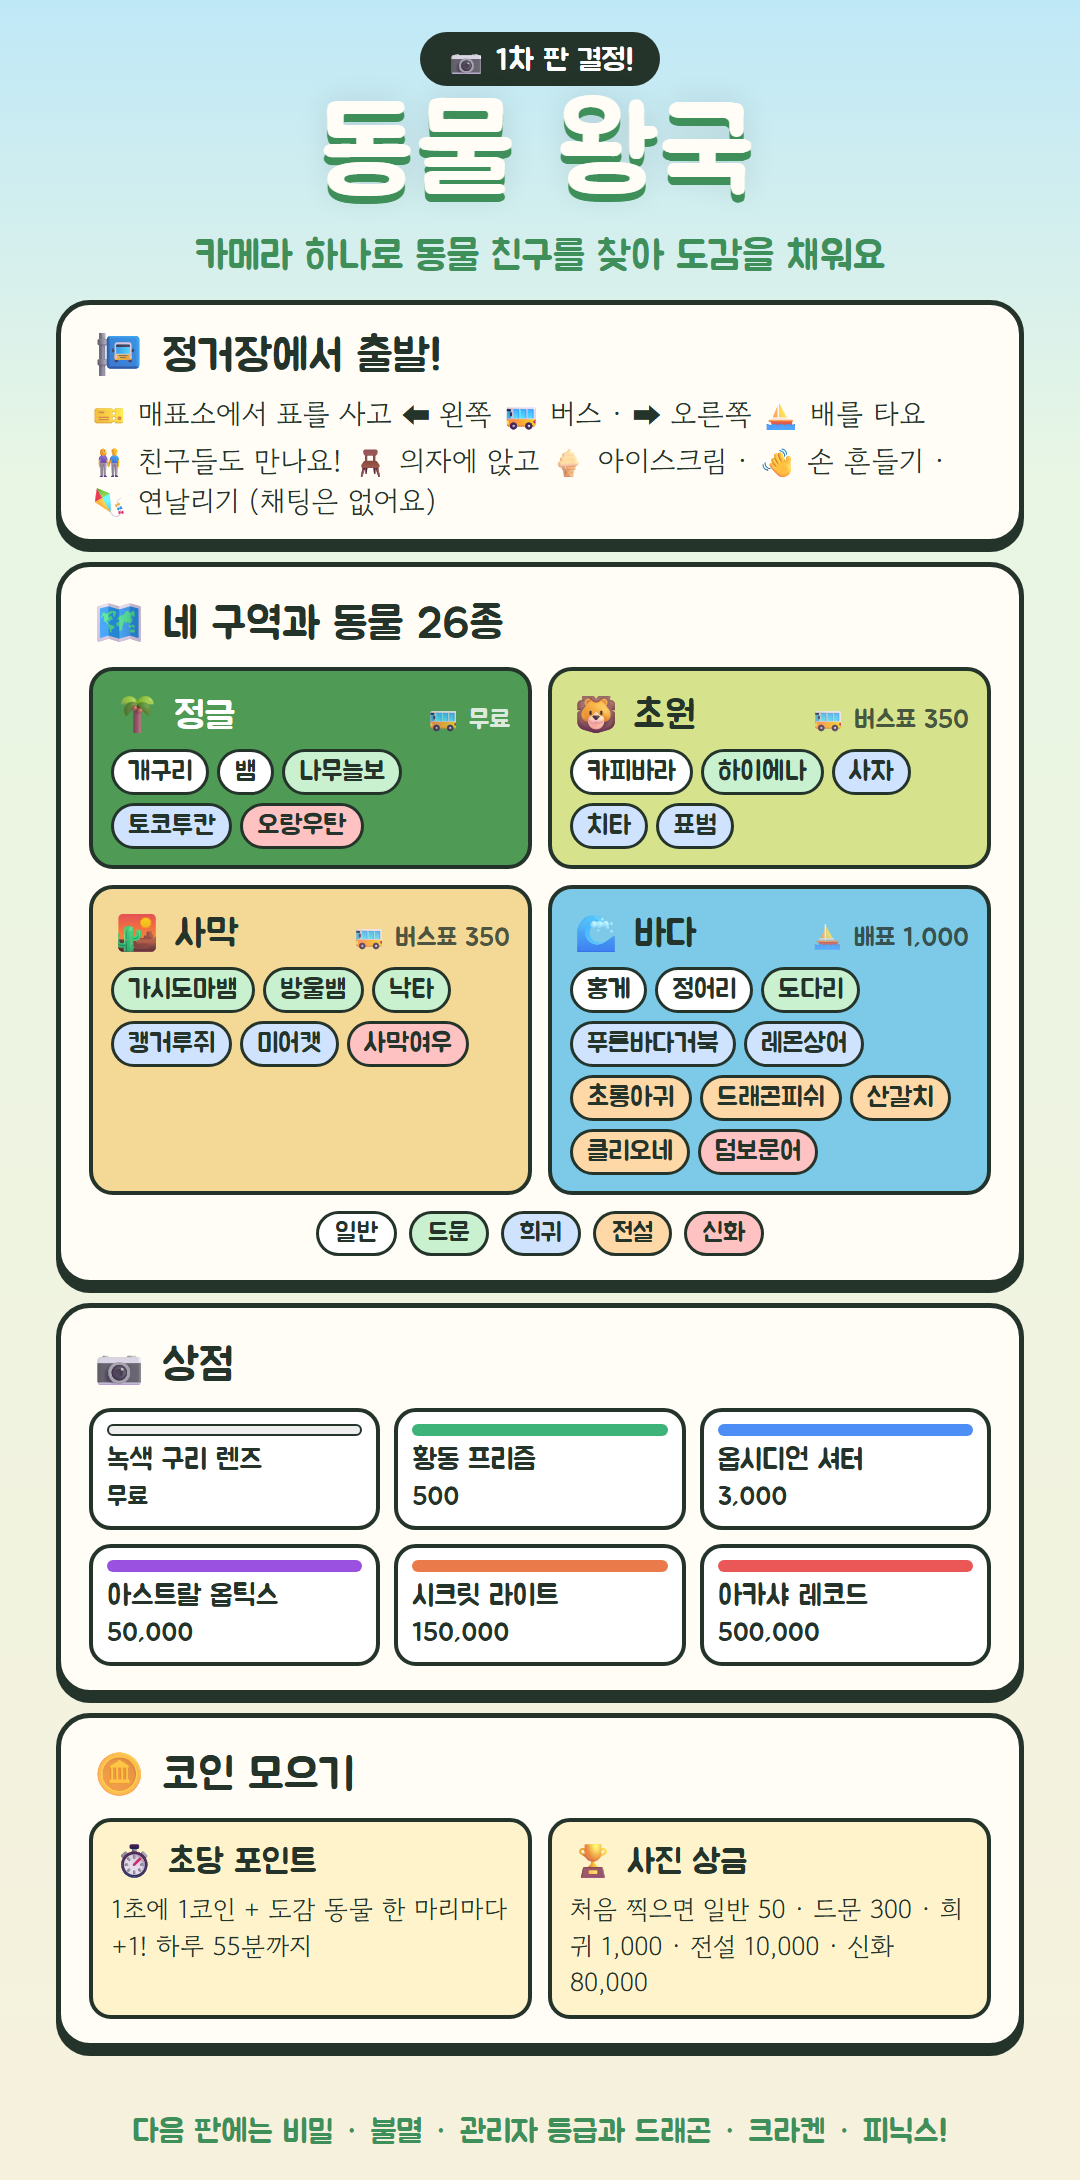
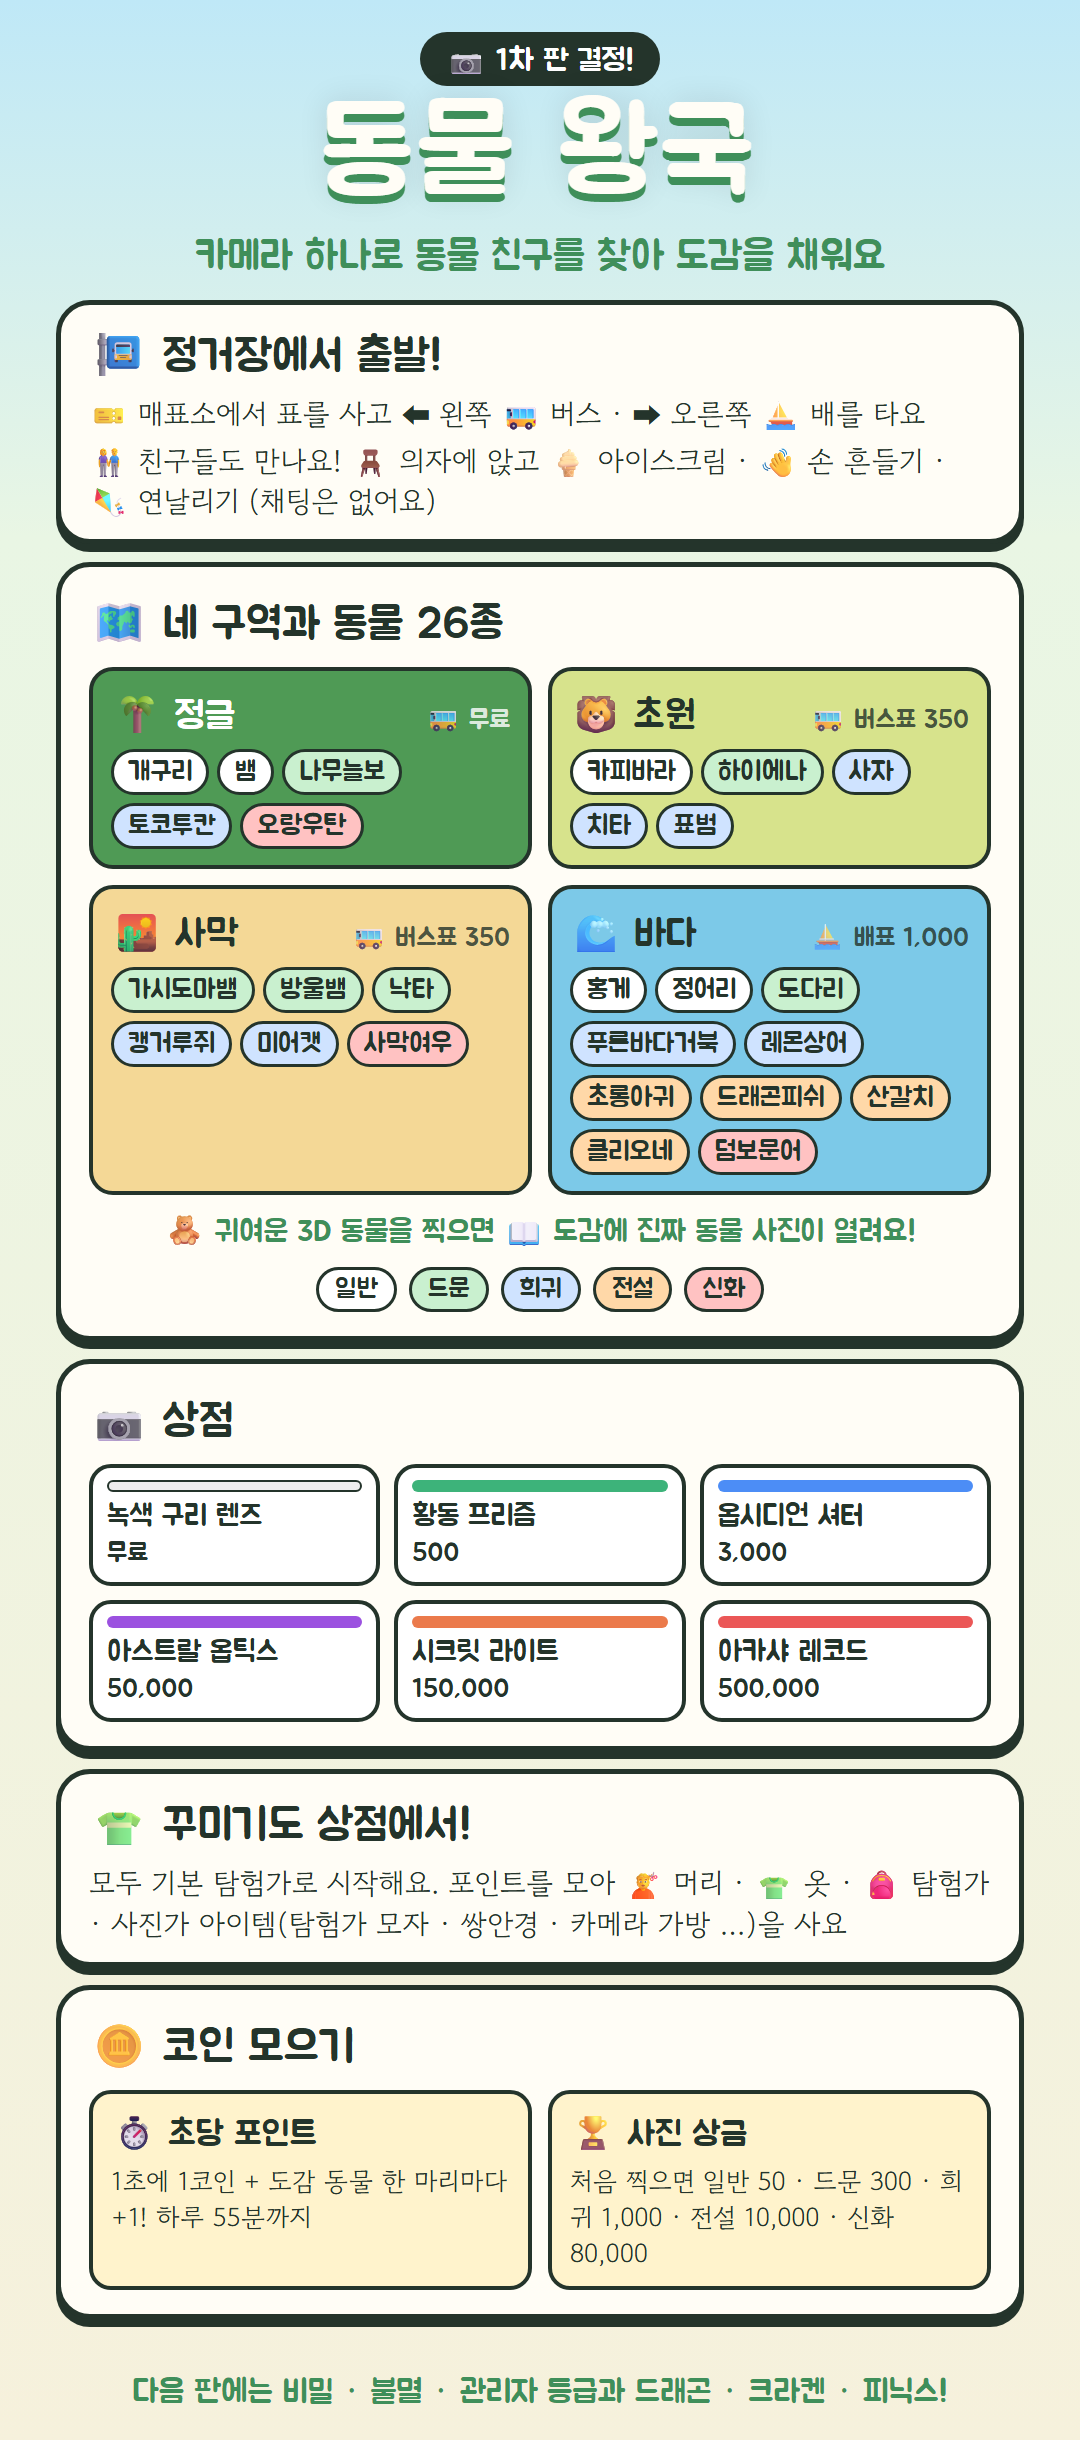
snapzoo 설계 기록: 꾸미기(기본 탐험가로 시작 · 머리 · 옷 · 탐험가 · 사진가 아이템을 상점에서 포인트로), 게임 속 동물은 귀여운 3D · 도감은 저작권 없는 실제 동물 사진 + 내 최고 사진, 아이용 그림도

diff --git a/snapzoo/PLAN.md b/snapzoo/PLAN.md
@@ -23,7 +23,7 @@
 | 구역 4곳: 정글 · 초원 · 사막 · 바다(바닷가 · 깊은 바다) | 등급 셋: 비밀 · 불멸 · 관리자 |
 | 정거장 대기실 · 매표소 · 버스 · 배 | 카메라 셋: 오컬트 인코그니토 · 이모탈 코어 프리즘 · 마스터 아키텍트 |
 | 동물 26종, 등급 다섯(일반 · 드문 · 희귀 · 전설 · 신화) | 상상 동물: 드래곤 · 크라켄 · 피닉스 (관리자 이벤트로) |
-| 상점: 카메라 6대 · 버스표 · 배표 | 나머지 동물 50여 종 |
+| 상점: 카메라 6대 · 꾸미기(머리 · 옷 · 아이템) · 버스표 · 배표 | 나머지 동물 50여 종 |
 | 초당 포인트 + 사진 상금, 사진 점수 100점, 도감, 사진 앨범 | 기록 온라인 저장 (다른 기기에서 이어 하기) |
 | 대기실: 친구들이 서로 보이는 메타버스 · 의자 · 동작(🍦 👋 🪁) · 채팅 금지 | 구역 탐험 중에도 친구 보이기 |
 
@@ -86,6 +86,24 @@
 - 첫 카메라 이름은 아이 글씨가 "녹슨 구리 렌즈"로도 읽혀요. 아이에게 확인 필요.
 - 화면에서는 '카메라 가게' 대신 **'상점'**이라고 불러요 (탭에서 두 줄이 되지 않게).
 
+## 6-1. 꾸미기 (상점에서 포인트로)
+
+- 큰법당 · 캠핑장과 달리 처음에 마음대로 꾸미지 않아요. 모두 같은 **기본 탐험가**로 시작 (이름만 낱말 조합).
+- 상점 탭 셋: 📷 카메라 · 👕 꾸미기 · 🎫 표. 꾸미기는 모양만 바뀌고 점수 · 코인에는 영향 없음. 대기실에서 친구들에게 보여요.
+
+| 종류 | 목록 (시안 가격) |
+|---|---|
+| 💇 머리 스타일 | 기본 짧은 머리 무료 · 곱슬머리 300 · 포니테일 300 · 땋은 머리 500 |
+| 👕 옷 | 기본 탐험복 무료 · 사파리 조끼 800 · 잠수복 1,500 · 사진가 재킷 2,000 |
+| 🎒 아이템 (탐험가 · 사진가) | 나침반 목걸이 800 · 탐험가 모자 1,000 · 카메라 가방 1,200 · 쌍안경 1,500 · 헤드랜턴 2,500 |
+
+## 6-2. 동물 모습과 도감
+
+- **게임 속 동물은 귀여운 3D:** 머리가 크고 몸이 작은 동글동글한 모양 · 큰 눈. 캐릭터와 같은 블록 느낌으로 26종을 직접 만들어요 (외부 3D 모델을 안 써서 저작권 걱정 없음). 동물마다 '특별한 순간' 동작.
+- **도감은 진짜 동물 사진:** 처음 찍으면 그 동물의 실제 사진이 열려요 + 한 줄 설명, 옆에 내가 찍은 최고 사진 · 별 · 점수.
+- 사진은 **저작권 문제 없는 것만**: 위키미디어 공용의 CC0 · 퍼블릭 도메인(미국 국립공원 · 어류야생동물국 · 해양대기청 NOAA 등), 필요하면 CC BY는 찍은 사람 이름 표시. 메뉴 '사진 출처'에 동물마다 출처 · 라이선스를 모아요.
+- 깊은 바다 동물은 쓸 수 있는 사진이 적어 하나씩 확인 (못 찾으면 NOAA 탐사 사진 같은 공공 자료로).
+
 ## 7. 화면
 
 - **걷기 · 화면 B:** 왼쪽 조이스틱 · 오른쪽 점프(조이스틱과 같은 높이) · 아래 탭 다섯 칸(📖 도감 · 🛒 상점 · 가운데 큰 📷 사진 · 😊 표정 · 🗺 지도). 그림 + 큰 글씨, 엄지로 다 닿게.
@@ -123,3 +141,5 @@
 - 1차 판 동물 26종에서 바꿀 동물 (아이들이 그림을 보고)
 - 첫 카메라 이름: 녹색 구리 렌즈 / 녹슨 구리 렌즈
 - 표: 정기권(한 번 사면 계속) / 탈 때마다
+- 처음에 고를 수 있는 것: 이름(낱말 조합)만 / 피부색도
+- 꾸미기 목록 · 가격 (아이들과)
